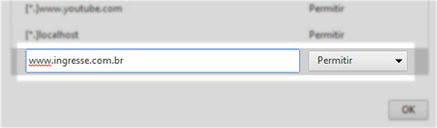
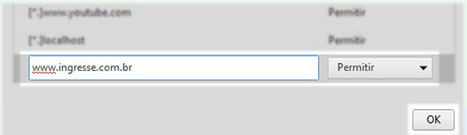
Html and css adjustments of the pop-up tutorial page
Still need to do some adjustments about the page, but's almost done.
Just need to put the real videos and extend the sides of the divs.

diff --git a/website-elements/pop-up-tutorial/pop-up-tutorial.html b/website-elements/pop-up-tutorial/pop-up-tutorial.html
@@ -22,7 +22,7 @@
             <div class="box shadow span12">
                 <h1>Desbloqueando Pop-ups em seu Navegador</h1>
             </div>
-                <div class="super-title">Qual navegador você está utilizando?</div>
+                <div class="super-title">Qual destes navegadores está sendo utilizado?</div>
                 <div class="browser-icons">
                     <a href="#chrome-div"><img src="img/chrome-button.png"></a>
                     <a href="#firefox-div"><img src="img/firefox-button.png"></a>
@@ -32,22 +32,171 @@
             <div style="margin-bottom: 100px;">
                 <hr style="clear: both;">
                 <div id="chrome-div" style="margin-top: 30px;">
-                    <div class="titles"><img src="img/chrome-title.png"></div>
-                        <img src="img/chrome-1.jpg" style="margin-top: 35px; margin-left: 33px; float: left;">
-                            <div class="super-number" style="margin-top: 57px; margin-left: 58px;">1</div>
-                            <div class="steps" style="margin-top: 120px;">Abra o Google Chrome e<br>clique no símbolo de uma<br>chave inglesa no canto<br>superior direito, ao final<br>da barra de endereços;</div> <br>
-                        <img src="img/chrome-2.jpg" style="margin-top: 50px; float: right;margin-right: 35px;">
-                            <!-- <div class="super-number">2</div>
-                            <div>Abra o Google Chrome e<br>clique no símbolo de uma<br>chave inglesa no canto<br>superior direito, ao final<br>da barra de endereços;</div>  !-->
+                    <table>
+                        <tr>
+                            <td>
+                                <div class="titles"><img src="img/chrome-title.png"></div>
+                            </td>
+                            <td>
+                                <div class="titles-font">Tutorial para Google Chrome</div>
+                            </td>
+                        </tr>
+                    </table>
+                         <div class="video">
+                            <iframe src="http://player.vimeo.com/video/44943443?title=0&amp;byline=0&amp;portrait=0&amp;color=ffffff" width="500" height="281" frameborder="0" webkitAllowFullScreen mozallowfullscreen allowFullScreen></iframe>
+                        </div>
+                    <table class="table">
+                        <tr>
+                            <td class="super-number" style="padding-right: 10px;">
+                                1
+                            </td>
+                            <td class="steps">
+                                Abra o Google Chrome e clique no símbolo de uma chave inglesa no canto superior direito, ao final da barra de endereços;
+                            </td>
+                            <td class="super-number" style="padding-right: 10px;">
+                                2
+                            </td>
+                            <td class="steps">
+                                Clique em “Configurações”, desça a barra de rolagem até o final e clique em “Mostrar configurações avançadas”;
+                            </td>
+                            <td class="super-number" style="padding-right: 10px; padding-left: 10px;">
+                                3
+                            </td>
+                            <td class="steps">
+                                Desça novamente e ao chegar na sessão “Privacidade”, clique em “Configurações de, conteúdo” para exibir as opções disponíveis;
+                            </td>
+                        </tr>
+                    </table>
+                    <table class="second-line">
+                        <tr>
+                            <td class="super-number" style="padding-right: 10px;">
+                                4
+                            </td>
+                            <td class="steps">
+                                Na nova janela que se abrir, desça até a sessão “Pop-ups” e cliquem em gerenciar exceções;
+                            </td>
+                            <td class="super-number" style="padding-right: 10px; padding-left: 20px;">
+                                5
+                            </td>
+                            <td class="steps">
+                                Digite o site da Ingresse (www.ingresse.com.br) e selecione “Permitir” e cliquem em OK.
+                                Pronto! Agora o navegador permitirá pop-ups vindo do nosso site. Boas compras!
+                            </td>
+                        </tr>
+                    </table>
                 </div>
                 <div id="firefox-div">
-                    <div class="titles"><img src="img/firefox-title.png"></div>
+                    <table>
+                        <tr>
+                            <td>
+                                <div class="titles"><img src="img/firefox-title.png"></div>
+                            </td>
+                            <td>
+                                <div class="titles-font">Tutorial para Firefox</div>
+                            </td>
+                        </tr>
+                    </table>
+                         <div class="video">
+                            <iframe src="http://player.vimeo.com/video/44943443?title=0&amp;byline=0&amp;portrait=0&amp;color=ffffff" width="500" height="281" frameborder="0" webkitAllowFullScreen mozallowfullscreen allowFullScreen></iframe>
+                        </div>
+                    <table class="table" style="width: 700px">
+                        <tr>
+                            <td class="super-number" style="padding-right: 10px;">
+                                1
+                            </td>
+                            <td class="steps" style="width: 290px;">
+                                No topo da janela do Firefox, clique no menu Firefox, e depois clique em Opções;
+                            </td>
+                            <td class="super-number" style="padding-right: 10px;">
+                                2
+                            </td>
+                            <td class="steps">
+                                Selecione o painel Conteúdo e clique em "exceções";
+                            </td>
+                        </tr>
+                    </table>
+                    <table class="second-line" style="width: 300px;">
+                        <tr>
+                            <td class="super-number" style="padding-right: 10px;">
+                                3
+                            </td>
+                            <td class="steps">
+                                Digite o site da Ingresse (www.ingresse.com.br) e clique em "Permitir". Pronto! Agora você poderá fazer suas compras sem problemas.
+                            </td>
+                        </tr>
+                    </table>
                 </div>
                 <div id="explorer-div">
-                    <div class="titles"><img src="img/explorer-title.png"></div>
+                    <table>
+                        <tr>
+                            <td>
+                                <div class="titles"><img src="img/explorer-title.png"></div>
+                            </td>
+                            <td>
+                                <div class="titles-font">Tutorial para Internet Explorer</div>
+                            </td>
+                        </tr>
+                    </table>
+                    <div class="video">
+                            <iframe src="http://player.vimeo.com/video/44943443?title=0&amp;byline=0&amp;portrait=0&amp;color=ffffff" width="500" height="281" frameborder="0" webkitAllowFullScreen mozallowfullscreen allowFullScreen></iframe>
+                        </div>
+                    <table class="table" style="width: 700px">
+                        <tr>
+                            <td class="super-number" style="padding-right: 10px;">
+                                1
+                            </td>
+                            <td class="steps" style="width: 300px;">
+                                Ao abrir o Internet Explorer, clique no botão Ferramentas(canto superior direito) e seguida selecione a opção “Opções de Internet”;
+                            </td>
+                            <td class="super-number" style="padding-right: 10px;">
+                                2
+                            </td>
+                            <td class="steps">
+                                Selecione a aba “Privacidade” e na sessão  Bloqueador de Pop-ups, clique em Configurações;
+                            </td>
+                        </tr>
+                    </table>
+                    <table class="second-line" style="width: 300px;">
+                        <tr>
+                            <td class="super-number" style="padding-right: 10px;">
+                                3
+                            </td>
+                            <td class="steps">
+                                Digite o site da Ingresse (www.ingresse.com.br) e clique em "Adicionar". Pronto! Agora você poderá fazer suas compras sem problemas.
+                            </td>
+                        </tr>
+                    </table>
                 </div>
                 <div id="safari-div">
-                    <div class="titles"><img src="img/safari-title.png"></div>
+                    <table>
+                        <tr>
+                            <td>
+                                <div class="titles"><img src="img/safari-title.png"></div>
+                            </td>
+                            <td>
+                                <div class="titles-font">Tutorial para Safari</div>
+                            </td>
+                        </tr>
+                    </table>
+                    <div class="video" style="margin-top: 150px;">
+                            <iframe src="http://player.vimeo.com/video/44943443?title=0&amp;byline=0&amp;portrait=0&amp;color=ffffff" width="500" height="281" frameborder="0" webkitAllowFullScreen mozallowfullscreen allowFullScreen></iframe>
+                        </div>
+                    <table class="table" style="width: 700px">
+                        <tr>
+                            <td class="super-number" style="padding-right: 10px;">
+                                1
+                            </td>
+                            <td class="steps" style="width: 250px;">
+                                Abra o Safari e no menu da maçã, selecione “Preferências”;
+                            </td>
+                            <td class="super-number" style="padding-right: 10px;">
+                                2
+                            </td>
+                            <td class="steps">
+                                Selecione a aba “Segurança” e desmarque a opção “Bloquear Janelas Pop-up”. Pronto! Agora você poderá fazer suas compras sem problemas.
+                            </td>
+                        </tr>
+                    </table>
                 </div>
             </div>
         </div>

diff --git a/website-elements/pop-up-tutorial/style/pop-up-tutorial.css b/website-elements/pop-up-tutorial/style/pop-up-tutorial.css
@@ -9,29 +9,45 @@
 }
 
 #safari-div {
-	width: 960px; height: 576px; margin: 0px auto; background: url('../img/safari-bg.jpg') no-repeat;
+	width: 960px; height: 800px; margin: 0px auto; background: url('../img/safari-bg.jpg') no-repeat;
 }
 
 #chrome-div {
-	width: 960px; height: 1152px; margin: 0px auto; background: url('../img/chrome-bg.jpg') no-repeat;
+	width: 960px; height: 800px; margin: 0px auto; background: url('../img/chrome-bg.jpg') no-repeat;
 }
 
 #firefox-div {
-	width: 960px; height: 576px; margin: 0px auto; background: url('../img/firefox-bg.jpg') no-repeat;
+	width: 960px; height: 800px; margin: 0px auto; background: url('../img/firefox-bg.jpg') no-repeat;
 }
 
 #explorer-div {
-	width: 960px; height: 576px; margin: 0px auto; background: url('../img/explorer-bg.jpg') no-repeat;
+	width: 960px; height: 800px; margin: 0px auto; background: url('../img/explorer-bg.jpg') no-repeat;
 }
 
 .titles {
-	padding-top: 35px; margin-left: 25px;
+	padding-top: 35px; margin-left: 25px; width: 65px;
 }
 
 .super-number {
-	font-size: 50px; font-weight: bold; color: #474747; width: 50px; height: 40px; float: left;
+	font-size: 40px; font-weight: bold; color: #474747; width: 6px; height: 40px;
 }
 
 .steps {
-	font-size: 18px; font-weight: bolder; color: #474747; float: left;
+	font-size: 14px; font-weight: bolder; color: #474747;
+}
+
+.titles-font {
+	font-weight: bolder; font-size: 30px; float: left; margin-top: 30px; color: #e3e3e3; text-shadow: #000 1px 1px 3px;
+}
+
+.video {
+	margin-top: 100px; margin-left: 230px;
+}
+
+.table {
+	margin-top: 50px; width: 890px; margin-right: auto; margin-left: auto;
+}
+
+.second-line {
+	margin-top: 40px; width: 600px; margin-left: auto; margin-right: auto; 
 }
